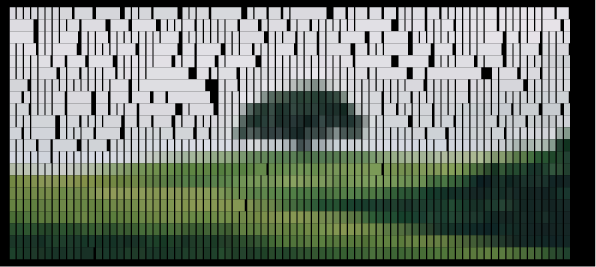
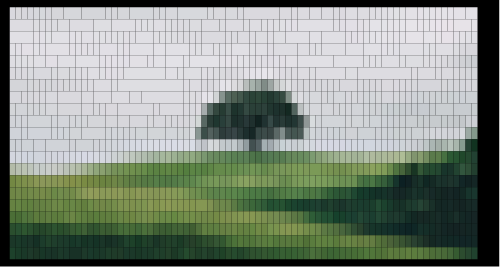
0.3.2

Changed region(s): [[0.0, 0.03, 0.96, 0.9888], [0.99, 0.0, 1.0, 1.0], [0.93, 0.6891, 0.96, 0.779]]

diff --git a/CHANGELOG.md b/CHANGELOG.md
@@ -6,6 +6,7 @@
   * 0.2.1 (2026-11-03): Fix descriptions for `-t` and `-n` options
 * 0.3.0 (2026-11-03): Add image-based readme for web (crates.io and github.com) and terminal output screenshots via [`termframe`] and [`resvg`]; previous readme is now at [`README-TERM.md`] and can view it in your terminal via `ttfun -R`
   * 0.3.1 (2026-11-03): Add note to readme; fix reference link definitions; use a custom termframe theme
+  * 0.3.2 (2026-11-05): Regenerate terminal output screenshots after configuring [`termframe`] as [recommended](https://github.com/pamburus/termframe/issues/808#issuecomment-6646212688)
 
 [`README-TERM.md`]:
 README-TERM.md
